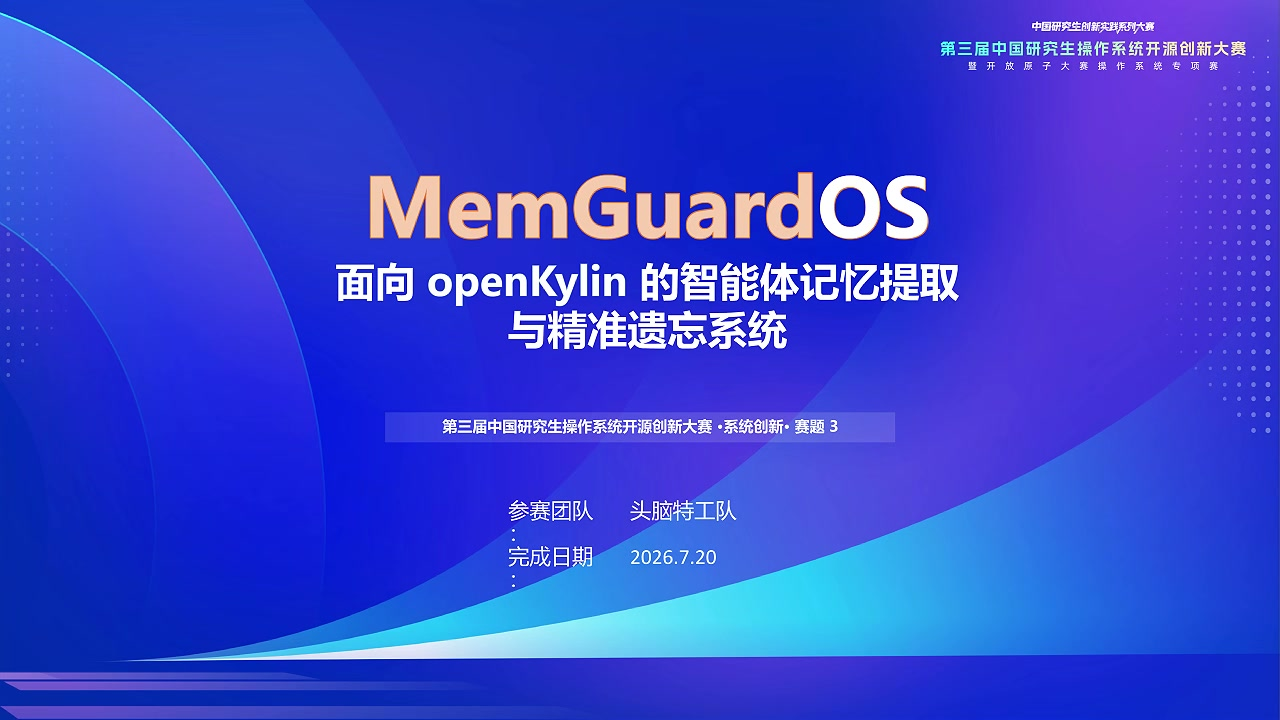
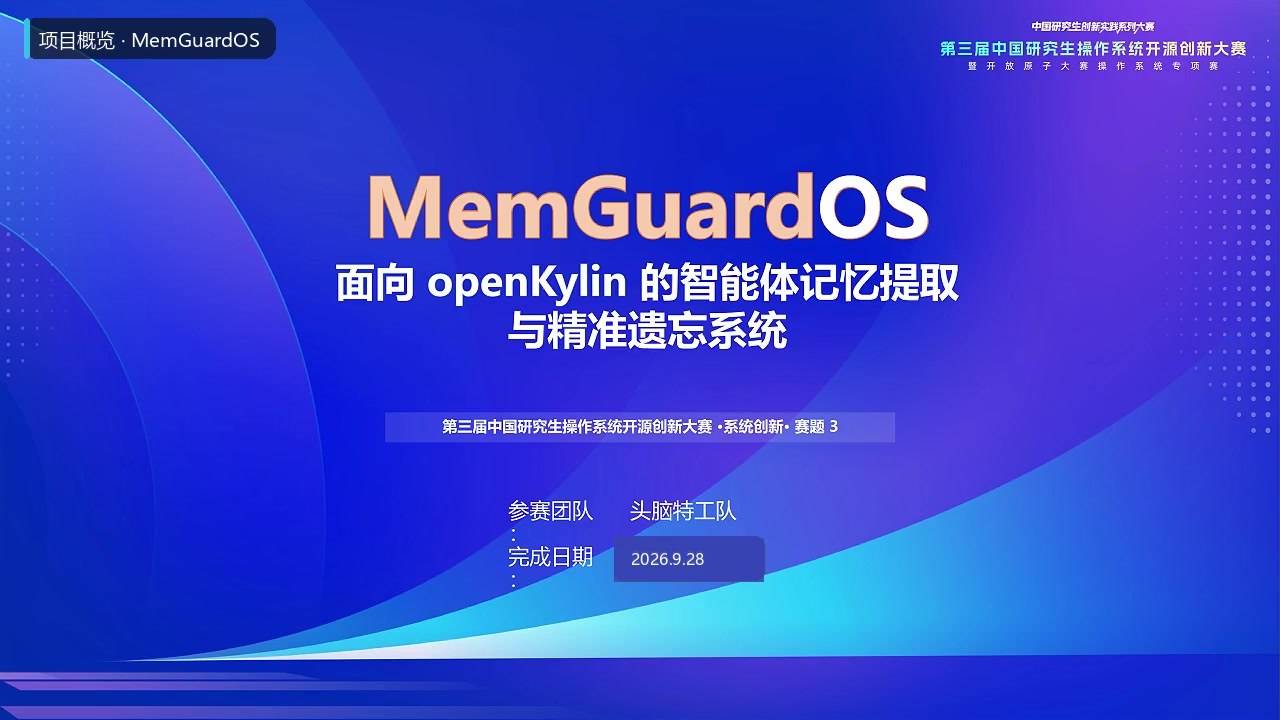
docs: align finals video cover and verification command paths

Changed region(s): [[0.0, 0.0, 0.2188, 0.0917], [0.4688, 0.7333, 0.625, 0.825]]

diff --git a/README.md b/README.md
@@ -475,7 +475,7 @@ flowchart TB
 
 ```bash
 python -m compileall -q memguard scripts
-python -m ruff check memguard tests scripts
+python -m ruff check memguard ../tests scripts
 python -m pytest -q
 python scripts/check_docs_links.py
 python scripts/check_metric_consistency.py
